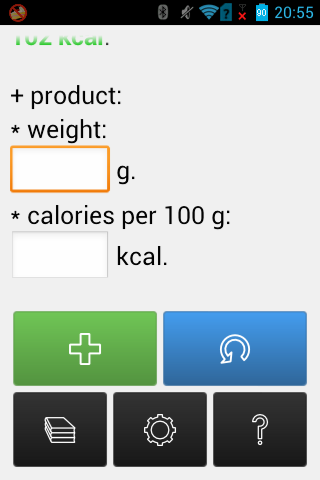
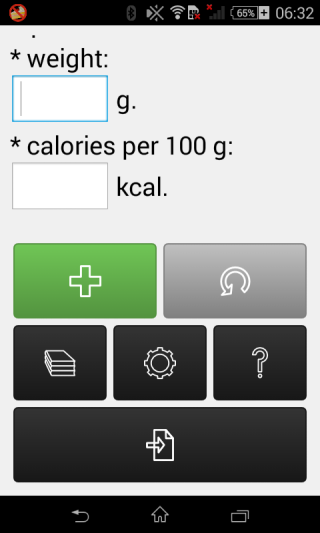
Remove backup restoring.

diff --git a/src/com/thewizardplusplus/diaryofcalories/MainActivity.java b/src/com/thewizardplusplus/diaryofcalories/MainActivity.java
@@ -5,10 +5,7 @@ import java.util.Date;
 import java.util.Locale;
 import java.text.DateFormat;
 import java.text.SimpleDateFormat;
-import java.io.BufferedInputStream;
 import java.io.File;
-import java.io.FileInputStream;
-import java.io.InputStream;
 import java.io.OutputStream;
 import java.io.FileOutputStream;
 import java.io.BufferedOutputStream;
@@ -209,42 +206,10 @@ public class MainActivity extends Activity {
 		);
 	}
 
-	public void selectBackupForRestore(View view) {
-		Intent intent = new Intent(Intent.ACTION_GET_CONTENT);
-		intent.setType(BACKUP_MIME_TYPE);
-
-		startActivityForResult(intent, FILE_SELECT_CODE);
-	}
-
-	protected void onActivityResult(
-		int request_code,
-		int result_code,
-		Intent data
-	) {
-		if (
-			request_code == FILE_SELECT_CODE
-			&& result_code == Activity.RESULT_OK
-		) {
-			Uri uri = data.getData();
-			if (uri != null) {
-				String path = uri.getPath();
-				if (path != null) {
-					String[] path_parts = path.split(":");
-					restoreHistory(
-						Environment.getExternalStorageDirectory()
-						+ "/"
-						+ path_parts[path_parts.length > 1 ? 1 : 0]
-					);
-				}
-			}
-		}
-	}
-
 	private static final String BACKUP_MIME_TYPE = "text/xml";
 	private static final String BACKUP_DIRECTORY = "#diary-of-calories";
 	private static final long NOTIFICATION_HIDE_DELAY = 5000;
 	private static final int ONGOING_NOTIFICATION_ID = -1;
-	private static final int FILE_SELECT_CODE = 1;
 
 	private TextView label1;
 	private TextView current_day_calories;
@@ -331,29 +296,6 @@ public class MainActivity extends Activity {
 		);
 
 		cancel_button.setEnabled(data_accessor.getNumberOfCurrentDayData() > 0);
-	}
-
-	private void restoreHistory(String filename) {
-		File backup_file = new File(filename);
-		InputStream in = null;
-		try {
-			try {
-				in = new BufferedInputStream(new FileInputStream(backup_file));
-
-				DataAccessor data_accessor = DataAccessor.getInstance(this);
-				data_accessor.setDataFromXml(in);
-			} finally {
-				if (in != null) {
-					in.close();
-				}
-			}
-		} catch (IOException exception) {
-			Utils.showAlertDialog(
-				this,
-				getString(R.string.error_message_box_title),
-				getString(R.string.restore_file_error_message)
-			);
-		}
 	}
 
 	private void setWidgetUpdateAlarm() {
